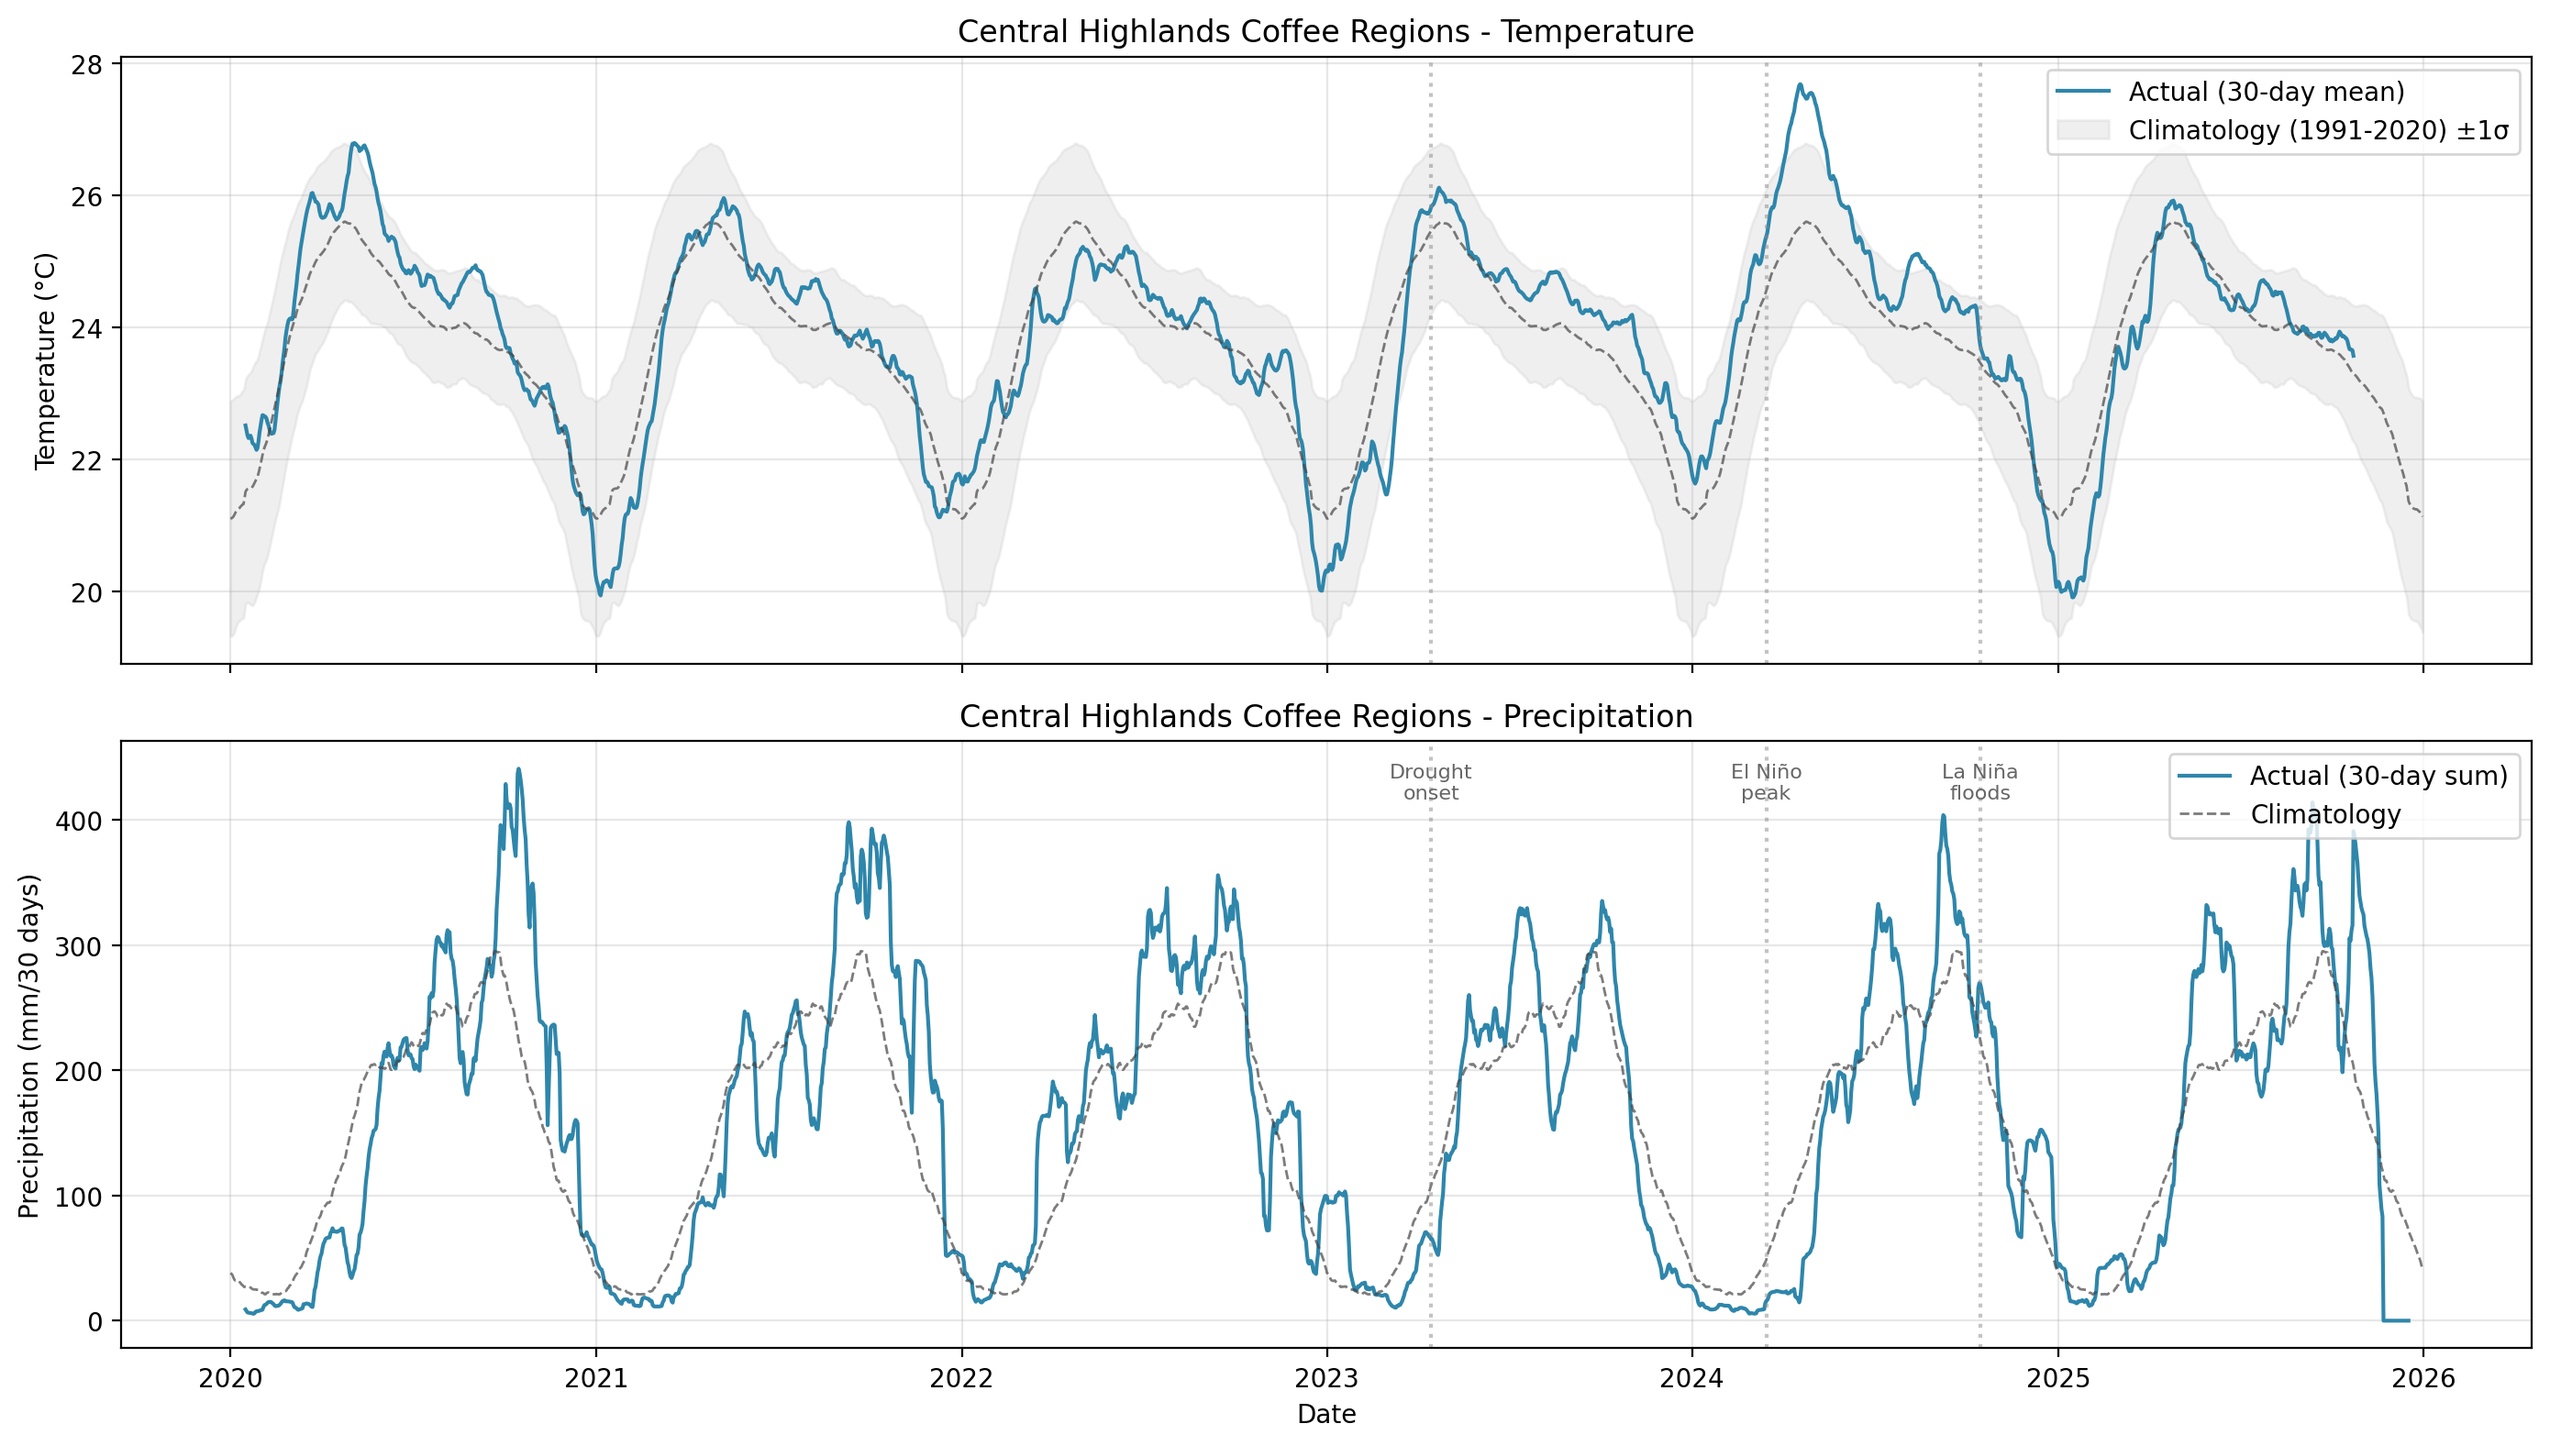
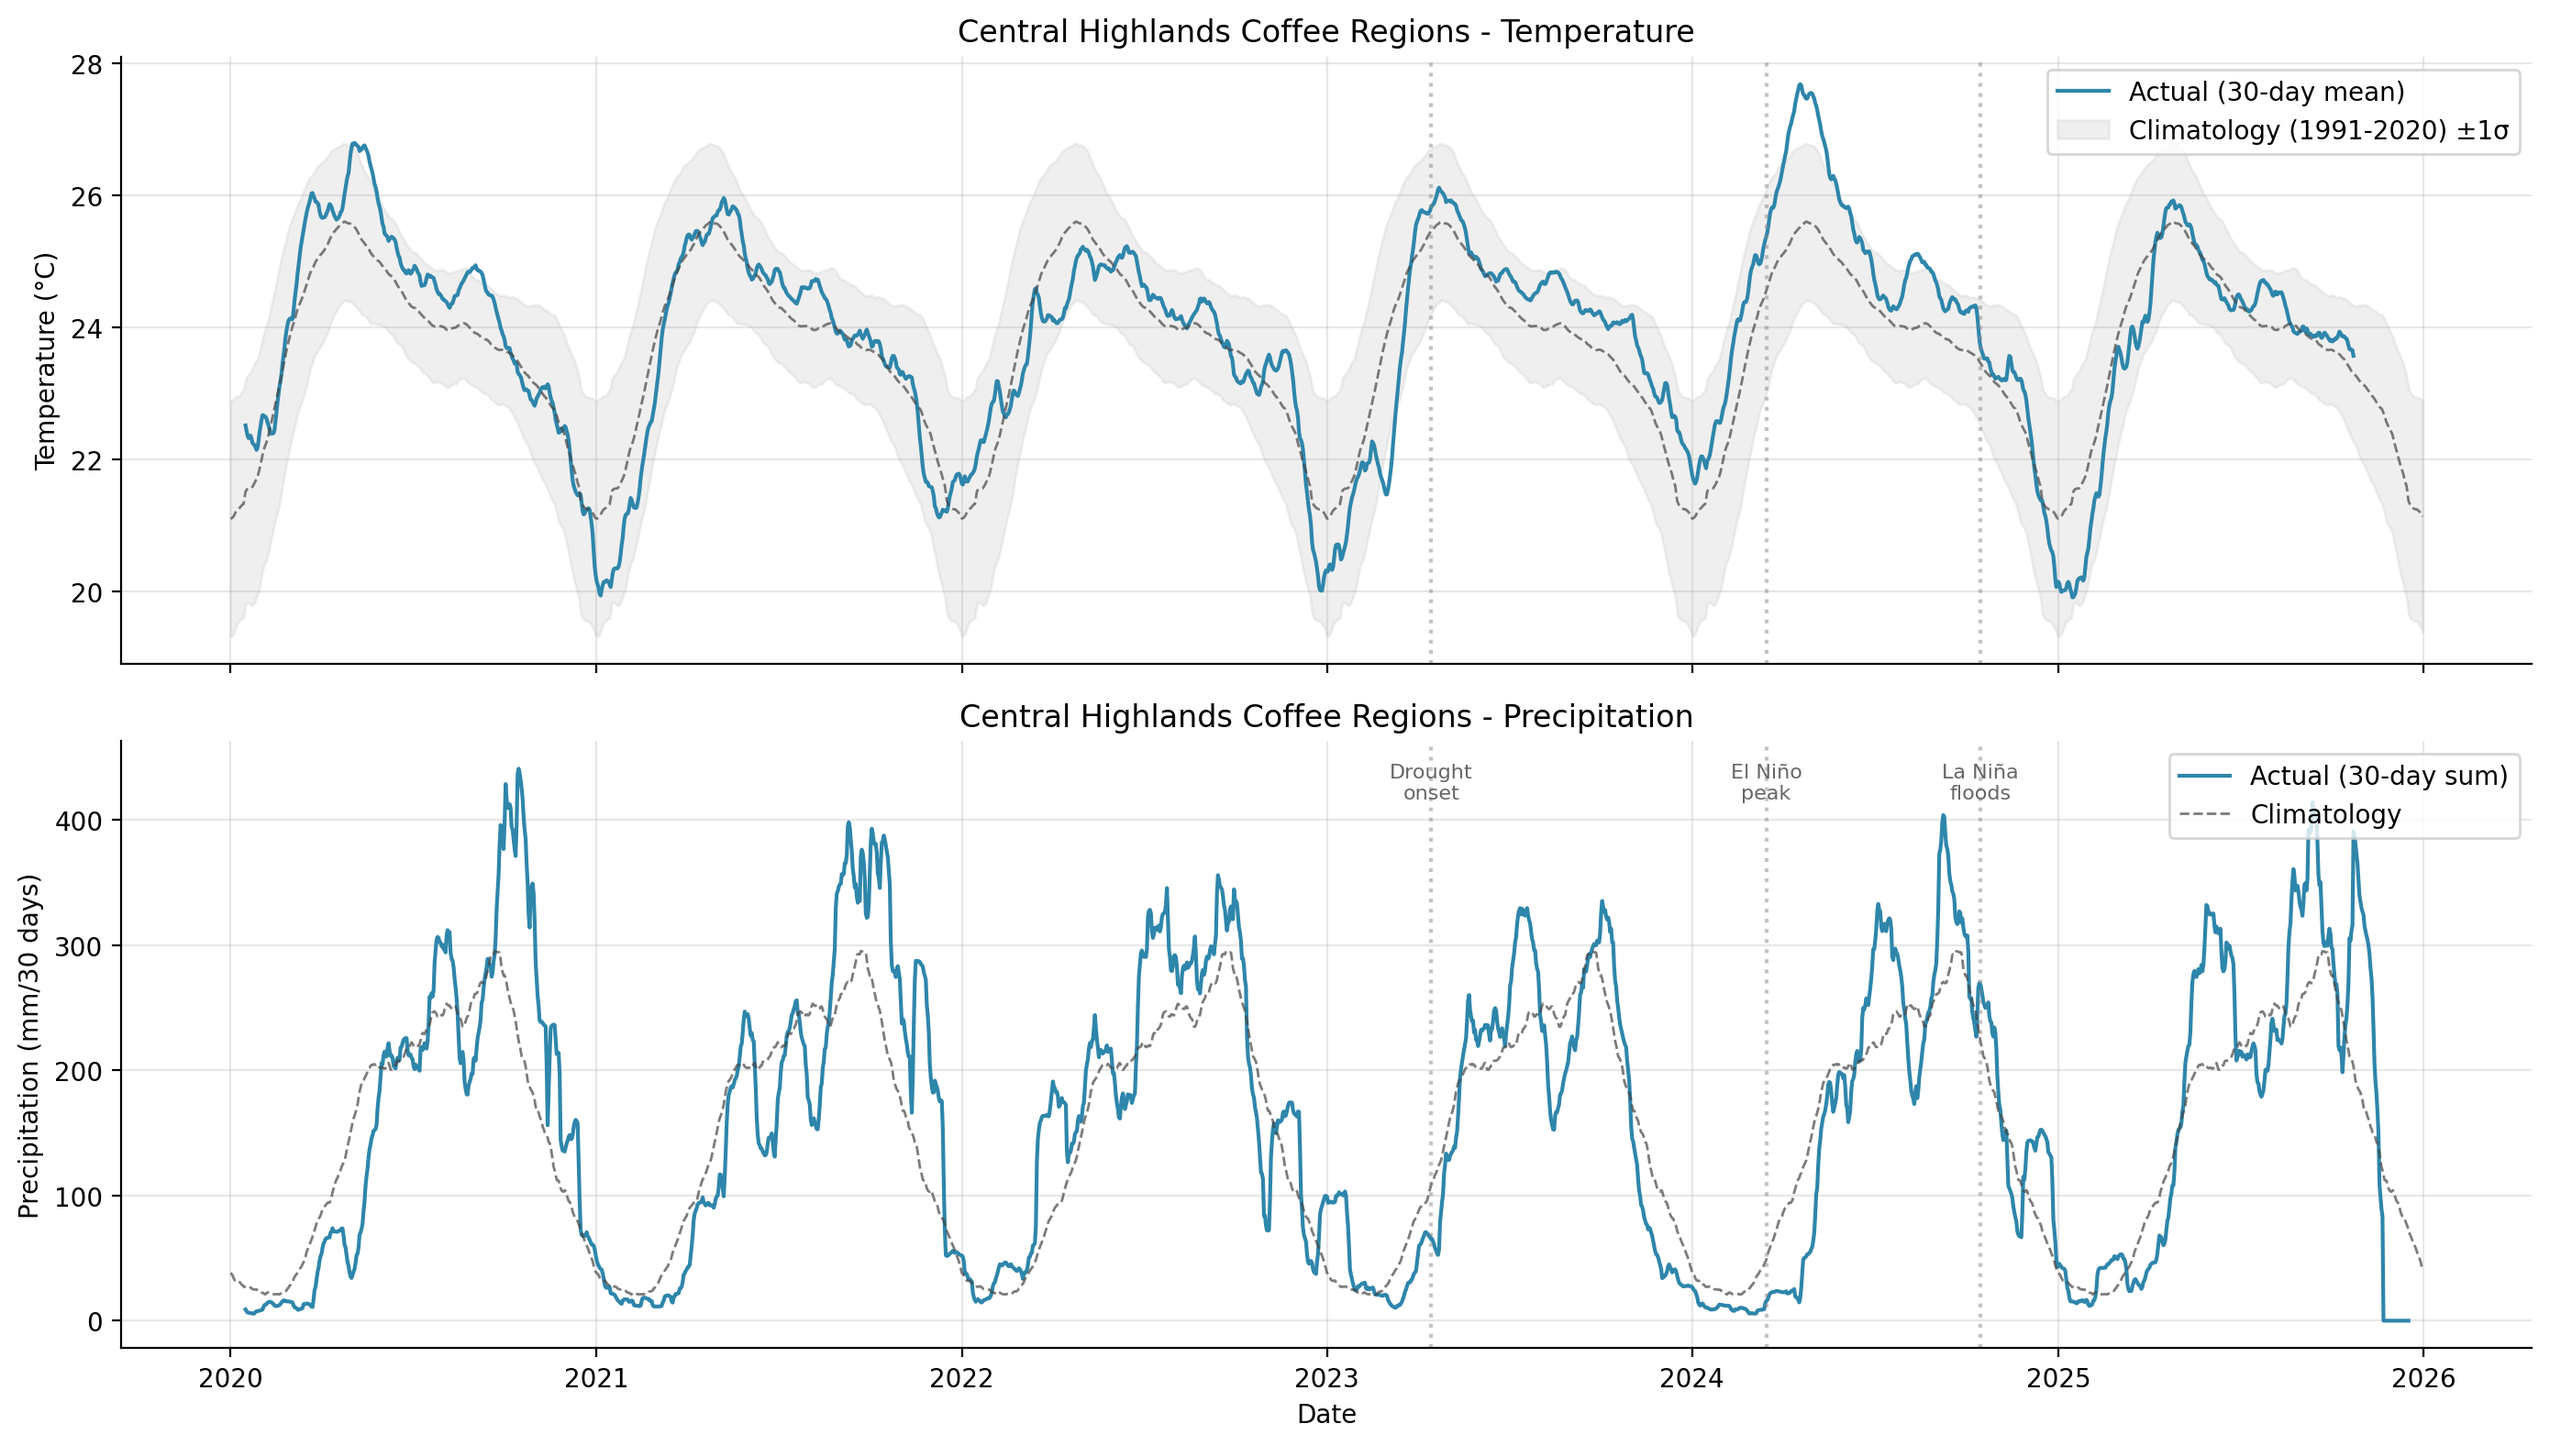
Add production styling to visualisation script
- Add axes.spines.top/right: False to plt.rcParams for clean plot styling
- Regenerate all visualisation artefacts with hidden top/right spines
- Update IMPLEMENTATION_PLAN.md Step 8 status to COMPLETE
- Add documentation about tf_data_ml_utils usage in visualisation context

Changed region(s): [[0.9899, 0.0311, 1.0, 0.4661], [0.9899, 0.5282, 1.0, 0.9321]]

diff --git a/scripts/05_visualise.py b/scripts/05_visualise.py
@@ -49,7 +49,7 @@ PROVINCE_DISPLAY = {
     "??k nong": "Dak Nong",
 }
 
-# Plot styling
+# Plot styling - production quality with clean spines
 plt.rcParams.update(
     {
         "font.family": "sans-serif",
@@ -60,6 +60,8 @@ plt.rcParams.update(
         "axes.facecolor": "white",
         "axes.grid": True,
         "grid.alpha": 0.3,
+        "axes.spines.top": False,
+        "axes.spines.right": False,
     }
 )
 

diff --git a/IMPLEMENTATION_PLAN.md b/IMPLEMENTATION_PLAN.md
@@ -49,9 +49,15 @@ scripts/
 **Code Standards**:
 - **Type checking**: Use `ty` (NOT mypy) for all type annotations
 - **Linting/Formatting**: Use `ruff` for linting and formatting
-- **Imports**: Import from `tf_data_ml_utils.weather.stages.*` modules
+- **Imports**: Import from `tf_data_ml_utils.weather.stages.*` modules - **NON-NEGOTIABLE**
 - **Minimal**: Each script should be <200 lines, single responsibility
 - **Runnable**: Each script runs independently via `uv run python scripts/0X_*.py`
+
+**⚠ CRITICAL: All scripts MUST use `tf-data-ml-utils/weather` code**:
+- Do NOT reimplement climatology computation - use `tf_data_ml_utils.weather.stages.climatology`
+- Do NOT reimplement index calculation - use `tf_data_ml_utils.weather.stages.indices`
+- Do NOT reimplement standardisation - use `tf_data_ml_utils.weather.stages.standardise`
+- Use helper functions like `stack_by_doy`, `cumsum_doy` from the weather module
 
 **Run order**:
 ```bash
@@ -350,7 +356,15 @@ anomaly.to_zarr('.../anomalies/vnm_adm1_anomalies_2020_2025.zarr')
 
 **JTBD**: Generate publication-quality visualisations for the conference booth.
 
-**Sub-steps**:
+**Status**: ✅ COMPLETE
+
+### Implementation Notes
+
+1. **Production plot styling** - ✅ Implemented via `plt.rcParams` with `axes.spines.top: False` and `axes.spines.right: False`
+2. **tf_data_ml_utils imports** - Not required for visualisation script (it loads pre-computed data, doesn't compute indices/climatology)
+3. **Data handling** - Visualisation script loads pre-processed zarr data and creates plots
+
+### Sub-steps
 
 ### 8a: Time Series Plots
 
@@ -358,7 +372,10 @@ anomaly.to_zarr('.../anomalies/vnm_adm1_anomalies_2020_2025.zarr')
 1. Plot precipitation, temperature, evaporation for Central Highlands provinces
 2. Show actual values vs climatology (with uncertainty bands)
 3. Highlight 2023/24 drought and 2025 floods
-4. Use consistent styling (colour palette, fonts, legends)
+4. **Production styling**:
+   - `ax.spines["right"].set_visible(False)`
+   - `ax.spines["top"].set_visible(False)`
+5. **Truncate NaN data** - Find last valid timestamp and slice data to end there
 
 **Variables to plot**:
 - Daily precipitation with 30-day rolling mean
@@ -373,15 +390,64 @@ anomaly.to_zarr('.../anomalies/vnm_adm1_anomalies_2020_2025.zarr')
 2. Focus on coffee-relevant provinces (Dak Lak, Lam Dong, Gia Lai, Dak Nong, Kon Tum)
 3. Show drought intensity (2024) and flood intensity (2025)
 
-### 8c: Index Summary Dashboard
+### 8c: Index Summary Dashboard (Day-of-Year Format)
 
 **Actions**:
-1. Create multi-panel figure showing:
-   - GDD accumulation vs normal
-   - Consecutive dry days
-   - SPI trajectory
-   - Extreme heat days count
-2. Add annotations for key events
+1. **Use `stack_by_doy` pattern** from `tf_data_ml_utils.weather.scripts.climo_index`:
+   ```python
+   def stack_by_doy(da: xr.DataArray) -> xr.DataArray:
+       """Reshape (time) -> (year, dayofyear)."""
+       da_coords = da.assign_coords({
+           "dayofyear": da["time"].dt.dayofyear,
+           "year": da["time"].dt.year,
+       })
+       return da_coords.set_index({"time": ["year", "dayofyear"]}).unstack("time")
+   ```
+2. **X-axis**: Day of year (1-365)
+3. **Y-axis**: Index value (GDD, EDD, CDD, etc.)
+4. **Climatology bands**: Show mean ± 1 std as shaded region
+5. **Multiple years overlaid**: Historical years in grey, current year highlighted
+6. **Cumulative indices**: Use `cumsum_doy` for accumulated metrics
+
+**Example plot structure**:
+```python
+# Climatology band (mean ± std)
+ax.fill_between(dayofyear, clim_mean - clim_std, clim_mean + clim_std,
+                alpha=0.2, color="C0", label="Climatology ±1σ")
+ax.plot(dayofyear, clim_mean, color="C0", lw=2, label="Climatology Mean")
+
+# Historical years (grey)
+for year in historical_years:
+    ax.plot(dayofyear, data.sel(year=year), color="grey", alpha=0.3, lw=0.5)
+
+# Current year (highlighted)
+ax.plot(dayofyear, data.sel(year=current_year), color="C1", lw=2, label=f"{current_year}")
+
+# Production styling
+ax.spines["right"].set_visible(False)
+ax.spines["top"].set_visible(False)
+```
+
+### 8d: Data Truncation
+
+**JTBD**: Remove NaN data that appears after the last ingest date.
+
+**Actions**:
+1. Find the last valid (non-NaN) timestamp in the data
+2. Slice all datasets to end at this timestamp before plotting
+3. Do not display extrapolated or missing future data
+
+```python
+def find_last_valid_timestamp(da: xr.DataArray) -> pd.Timestamp:
+    """Find the last timestamp with valid (non-NaN) data."""
+    valid_mask = ~np.isnan(da.values)
+    last_valid_idx = np.where(valid_mask.any(axis=tuple(range(1, valid_mask.ndim))))[0][-1]
+    return pd.Timestamp(da.time.values[last_valid_idx])
+
+# Usage
+last_valid = find_last_valid_timestamp(ds["tas"])
+ds = ds.sel(time=slice(None, last_valid))
+```
 
 **Output Location**: `/Users/tommylees/github/vietnam_coffee_synthetic/artefacts/weather_risk/`
 
